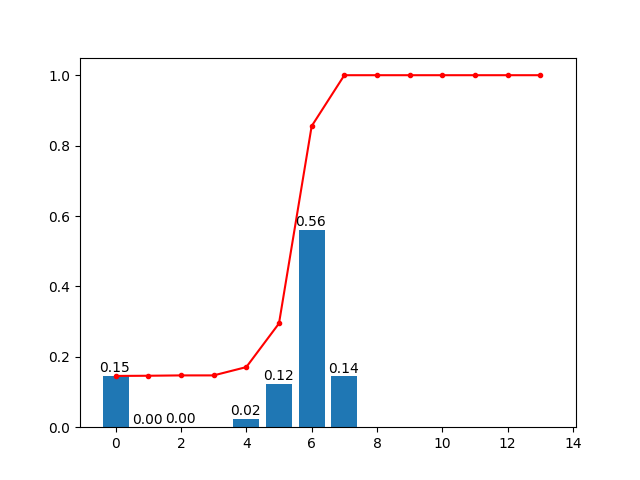
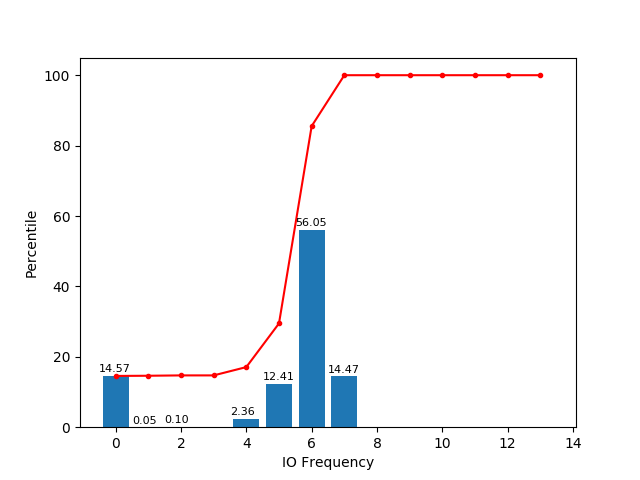
draw the figure for io count

diff --git a/stat.py b/stat.py
@@ -46,16 +46,19 @@ for i in enumerate(accu):
 print(list(enumerate(accu)))
 
 x=range(len(accu))
-y=accu
+y=[i*100 for i in accu]
 import matplotlib.pyplot as plt
 plt.plot(x,y,marker='.',linestyle='-',color='r')
 stat.reverse()
-plt.bar(x,rate)
+rate_perc=[i*100 for i in rate]
+plt.bar(x,rate_perc)
 
 for i,v in enumerate(rate):
     if v==0:
         continue
-    plt.text(i-0.5,v+0.01,'%.2f'%v)
+    plt.text(i-0.5,v*100+1,'%2.2f'%(v*100),fontsize=8)
+plt.ylabel('Percentile',color='k')
+plt.xlabel('IO Frequency',color='k')
 plt.savefig(sys.argv[2])
 
 
